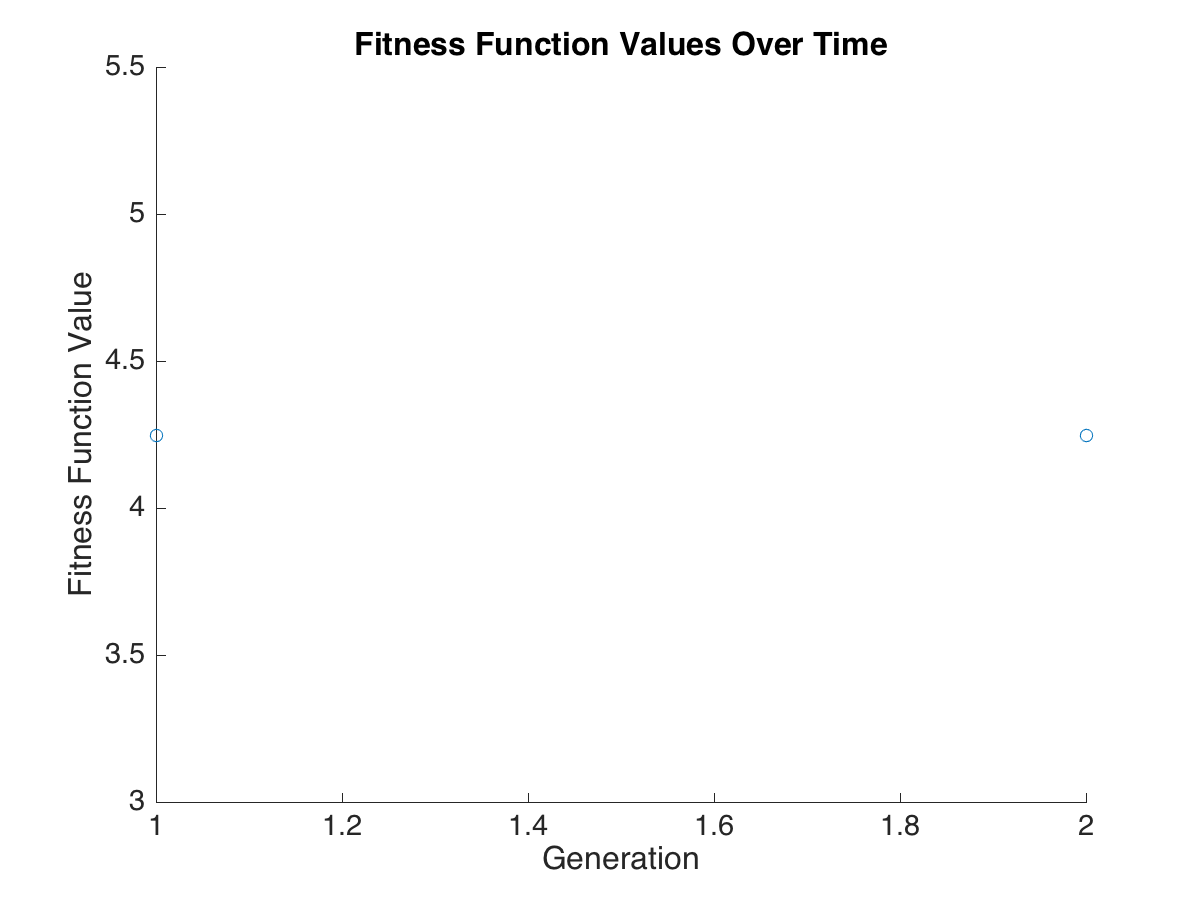
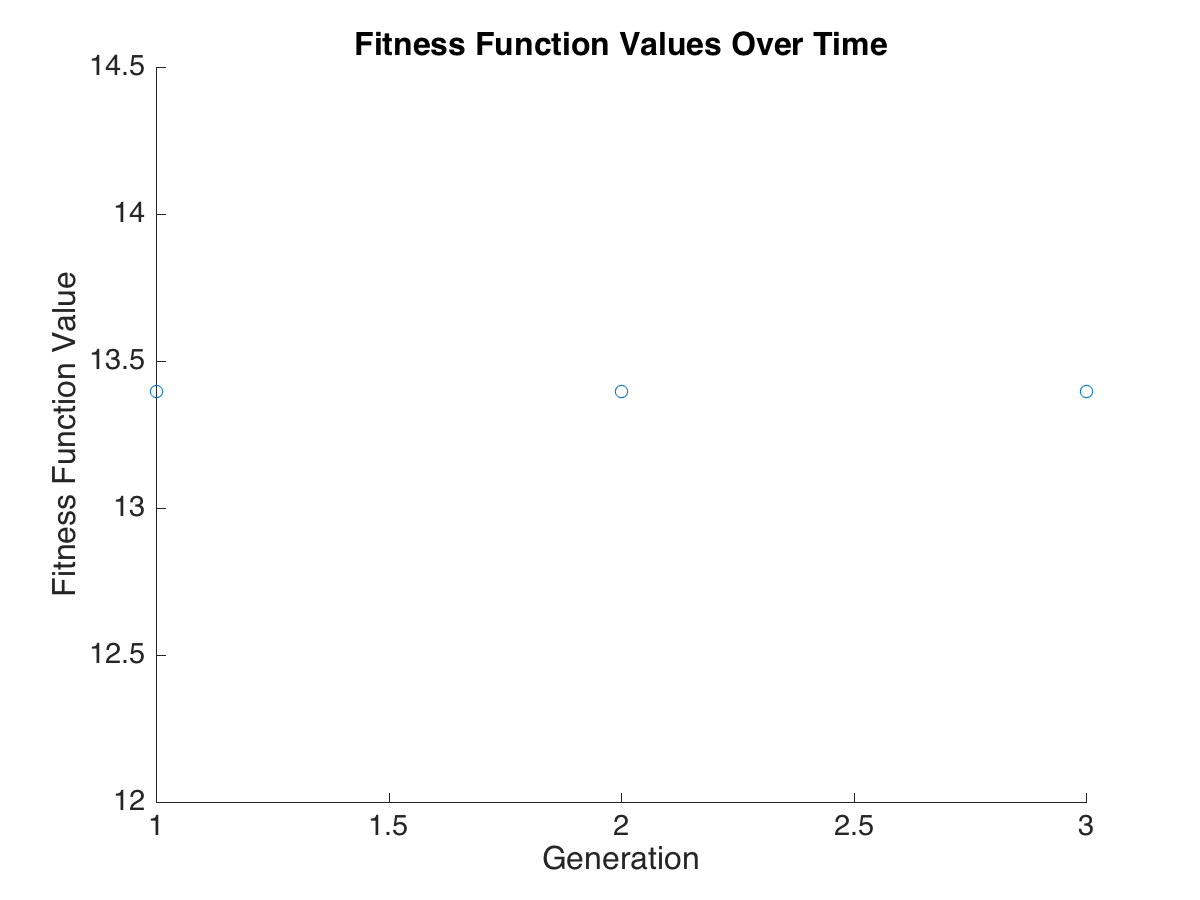
fixed bug in mutations_only.m

diff --git a/generate_mutations.m b/generate_mutations.m
@@ -17,7 +17,7 @@ newMat = 1;
 for mat = 1:A(5)
     mutatedMatrix = matrixMutate(matrixList{1, mat}, A(1), tuner);
     mutatedFitnessFunction = fitnessFn(mutatedMatrix);
-    if newFitnessFunction > fitnessFunction(mat)
+    if mutatedFitnessFunction >= fitnessFunction(mat)
         % mutated matrix is better
         newMatrixList{1, newMat} = mutatedMatrix;
         newFitnessFunction(newMat) = mutatedFitnessFunction;
@@ -28,8 +28,5 @@ for mat = 1:A(5)
     end
     newMat = newMat + 1;
 end
-
-newMatrixList
-newFitnessFunction
     
 end

diff --git a/mutations_only.m b/mutations_only.m
@@ -1,6 +1,6 @@
-generationSize = 5;
+generationSize = 1;
 
-generationCount = 10;
+generationCount = 3;
 
 matrixList = cell(1,generationSize);
 for i = 1:generationSize
